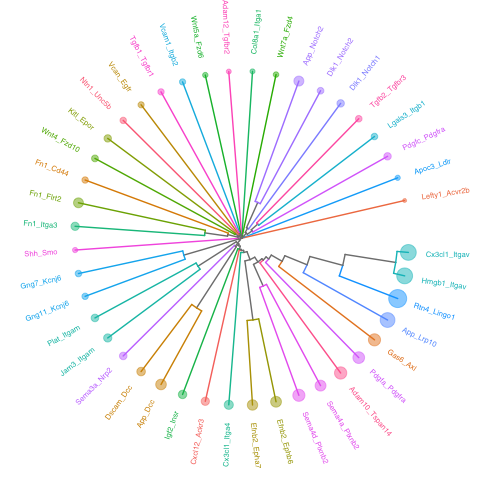
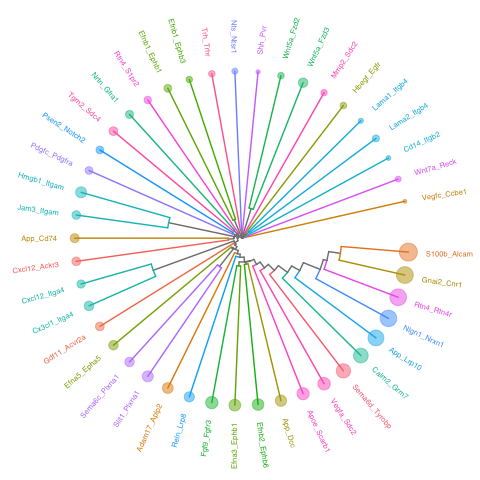
new README.md

diff --git a/README.md b/README.md
@@ -75,20 +75,20 @@ LRdb_m <-
 
 LRdb_m %>% 
   arrange(ligand_gene_symbol, receptor_gene_symbol)
-#> # A tibble: 105 × 10
+#> # A tibble: 104 × 10
 #>    LR    ligand_gene_symbol receptor_gene_symbol ligand_gene_id receptor_gene_id
 #>    <chr> <chr>              <chr>                         <dbl>            <dbl>
-#>  1 Adam… Adam10             Gpnmb                         11487            93695
-#>  2 Adam… Adam10             Tspan14                       11487            52588
-#>  3 Adam… Adam12             Tgfbr2                        11489            21813
-#>  4 Agt_… Agt                Lrp2                          11606            14725
+#>  1 Adam… Adam12             Epha1                         11489            13835
+#>  2 Adam… Adam17             Aplp2                         11491            11804
+#>  3 Adam… Adam2              Itga9                         11495           104099
+#>  4 Adip… Adipoq             Adipor1                       11450            72674
 #>  5 Alka… Alkal2             Alk                       100294583            11682
-#>  6 Apln… Apln               Aplnr                         30878            23796
-#>  7 Apoc… Apoc3              Ldlr                          11814            16835
+#>  6 Anxa… Anxa1              Dysf                          16952            26903
+#>  7 Apoe… Apoe               Scarb1                        11816            20778
 #>  8 Apoe… Apoe               Sdc1                          11816            20969
-#>  9 App_… App                Dcc                           11820            13176
-#> 10 App_… App                Lrp10                         11820            65107
-#> # ℹ 95 more rows
+#>  9 App_… App                Cd74                          11820            16149
+#> 10 App_… App                Dcc                           11820            13176
+#> # ℹ 94 more rows
 #> # ℹ 5 more variables: ligand_ensembl_protein_id <chr>,
 #> #   receptor_ensembl_protein_id <chr>, ligand_ensembl_gene_id <chr>,
 #> #   receptor_ensembl_gene_id <chr>, evidence <chr>
@@ -148,7 +148,7 @@ ccc_tbl <- compute_spatial_ccc(spe = spe_brain,
                                assay_name = "logcounts",
                                LRdb = LRdb_m)
 tictoc::toc()
-#> 7.267 sec elapsed
+#> 7.329 sec elapsed
 
 # future::plan(future::sequential)
 ```
@@ -156,20 +156,20 @@ tictoc::toc()
 ``` r
 ccc_tbl %>% 
   dplyr::arrange(desc(LRscore))
-#> # A tibble: 119,636 × 10
+#> # A tibble: 141,605 × 10
 #>    src         dst       d norm.d LR    ligand receptor LRscore  weight WLRscore
 #>    <chr>       <chr> <dbl>  <dbl> <chr> <chr>  <chr>      <dbl>   <dbl>    <dbl>
-#>  1 AGAAGAGCGC… GATA…  138.   1.00 Rtn4… Rtn4   Lingo1     0.862   0.992    0.855
-#>  2 TTCTTATCCG… GCAT…  137    1    Rtn4… Rtn4   Lingo1     0.861   1        0.861
-#>  3 AGGAGGCCTT… AGGA…    0    0    Rtn4… Rtn4   Lingo1     0.860 Inf      Inf    
-#>  4 AGTTTGGCAC… GCAT…  137.   1.00 Rtn4… Rtn4   Lingo1     0.860   0.999    0.859
-#>  5 GACGTGTAGG… GACG…    0    0    App_… App    Lrp10      0.859 Inf      Inf    
-#>  6 TCCGCGGCCC… AGGA…  138.   1.00 Rtn4… Rtn4   Lingo1     0.859   0.992    0.852
-#>  7 CTCTTCTATT… GGTT…  138    1.01 Rtn4… Rtn4   Lingo1     0.858   0.986    0.845
-#>  8 TTCAGCTGGC… GCAC…  138.   1.00 Rtn4… Rtn4   Lingo1     0.857   0.992    0.850
-#>  9 ATTGCGATCA… AGGA…  138.   1.01 Rtn4… Rtn4   Lingo1     0.857   0.980    0.839
-#> 10 ACGCTAGTGA… AACA…  138.   1.00 Rtn4… Rtn4   Lingo1     0.857   0.992    0.850
-#> # ℹ 119,626 more rows
+#>  1 GACGTGTAGG… GACG…    0    0    App_… App    Lrp10      0.859 Inf      Inf    
+#>  2 GGTGCTGGTA… GGTG…    0    0    App_… App    Cd74       0.852 Inf      Inf    
+#>  3 GGGCGGTCCT… GGGT…  138    1.01 Gnai… Gnai2  Cnr1       0.852   0.986    0.839
+#>  4 AAATAGCTTA… CTAG…  138    1.01 Gnai… Gnai2  Cnr1       0.851   0.986    0.838
+#>  5 CACCCAAATC… CTAG…  138.   1.01 Gnai… Gnai2  Cnr1       0.850   0.980    0.833
+#>  6 ACGGAATTTA… GGGT…  138.   1.01 Gnai… Gnai2  Cnr1       0.850   0.980    0.833
+#>  7 AGCTCTTTAC… GGTG…  138.   1.00 App_… App    Cd74       0.850   0.992    0.843
+#>  8 AACAGGATGG… GACG…  138.   1.01 App_… App    Lrp10      0.847   0.980    0.830
+#>  9 AGGACGACCC… GGTG…  138.   1.01 App_… App    Cd74       0.847   0.980    0.830
+#> 10 AGAAGGTTGC… GGTG…  138    1.01 App_… App    Cd74       0.847   0.986    0.834
+#> # ℹ 141,595 more rows
 ```
 
 ``` r
@@ -191,7 +191,7 @@ ccc_graph_list <-
   to_spatial_ccc_graph_list(ccc_tbl, sp_col_data, workers = 6)
 
 tictoc::toc()
-#> to_spatical_ccc_graph ...: 12.084 sec elapsed
+#> to_spatical_ccc_graph ...: 11.187 sec elapsed
 ```
 
 summarize_ccc_graph_metrics() summarize those graph metrics for each LR
@@ -204,26 +204,26 @@ ccc_graph_metrics_summary_df <-
   summarize_ccc_graph_metrics(ccc_graph_list)
 
 tictoc::toc()
-#> 0.065 sec elapsed
+#> 0.059 sec elapsed
 ```
 
 ``` r
 ccc_graph_metrics_summary_df %>%
   arrange(graph_component_count)
-#> # A tibble: 43 × 12
+#> # A tibble: 44 × 12
 #>    LR        graph_n_nodes graph_n_edges graph_component_count graph_motif_count
 #>    <chr>             <int>         <dbl>                 <dbl>             <int>
-#>  1 Hmgb1_It…          2635         11892                     3             22388
-#>  2 Rtn4_Lin…          2696         16456                     3             27017
-#>  3 Cx3cl1_I…          2617         11724                     4             21978
-#>  4 App_Lrp10          2646          9835                     5             19655
-#>  5 Adam10_T…          2114          5924                     8             10890
-#>  6 Gas6_Axl           2140          5712                    13             10471
-#>  7 Sema4d_P…          2079          5690                    14             10292
-#>  8 Pdgfa_Pd…          2099          5124                    18              9688
-#>  9 Sema4a_P…          1801          4135                    26              7024
-#> 10 App_Dcc            1989          3822                    42              8152
-#> # ℹ 33 more rows
+#>  1 Nlgn1_Nr…          2627         11042                     3             20957
+#>  2 S100b_Al…          2657         13613                     3             24055
+#>  3 App_Lrp10          2646          9835                     5             19655
+#>  4 Rtn4_Rtn…          2590         11251                     5             20250
+#>  5 Sema6d_T…          2281          7492                     5             14186
+#>  6 Gnai2_Cn…          2527         11392                     6             20558
+#>  7 Calm2_Gr…          2542          8040                     9             16302
+#>  8 Vegfa_Sd…          1993          5096                    15              9112
+#>  9 Fgf9_Fgf…          2009          4942                    20              9532
+#> 10 Efna3_Ep…          1900          4272                    21              7666
+#> # ℹ 34 more rows
 #> # ℹ 7 more variables: graph_diameter <dbl>, graph_un_diameter <dbl>,
 #> #   graph_mean_dist <dbl>, graph_circuit_rank <dbl>, graph_reciprocity <dbl>,
 #> #   graph_clique_num <int>, graph_clique_count <int>
@@ -239,25 +239,25 @@ ccc_graph_group_metrics_summary_df <-
   summarize_ccc_graph_metrics(ccc_graph_list, level = "group")
 
 tictoc::toc()
-#> 0.06 sec elapsed
+#> 0.058 sec elapsed
 ```
 
 ``` r
 ccc_graph_group_metrics_summary_df 
-#> # A tibble: 3,395 × 12
+#> # A tibble: 3,154 × 12
 #>    LR         group group_n_nodes group_n_edges group_adhesion group_motif_count
 #>    <chr>      <int>         <int>         <dbl>          <dbl>             <int>
-#>  1 Efnb2_Eph…     1          1021          3053              0              5526
-#>  2 Efnb2_Eph…    51             2             1              0                 0
-#>  3 Efnb2_Eph…    52             2             1              0                 0
-#>  4 Efnb2_Eph…     3            37            69              0               120
-#>  5 Efnb2_Eph…     5            13            17              0                25
-#>  6 Efnb2_Eph…     8            12            14              0                15
-#>  7 Efnb2_Eph…     2            46            95              0               128
-#>  8 Efnb2_Eph…    23             5             5              0                 3
-#>  9 Efnb2_Eph…    53             2             2              0                 0
-#> 10 Efnb2_Eph…    37             3             2              0                 1
-#> # ℹ 3,385 more rows
+#>  1 Wnt5a_Fzd3    66             4             4              0                 3
+#>  2 Wnt5a_Fzd3    25            15            23              0                34
+#>  3 Wnt5a_Fzd3     7            46           110              0               184
+#>  4 Wnt5a_Fzd3     1           183           383              0               727
+#>  5 Wnt5a_Fzd3     5            49            85              0               156
+#>  6 Wnt5a_Fzd3    84             2             1              0                 0
+#>  7 Wnt5a_Fzd3    17            21            26              0                48
+#>  8 Wnt5a_Fzd3    11            38           120              0               192
+#>  9 Wnt5a_Fzd3    20            18            31              0                55
+#> 10 Wnt5a_Fzd3     6            49            66              0               122
+#> # ℹ 3,144 more rows
 #> # ℹ 6 more variables: group_diameter <dbl>, group_un_diameter <dbl>,
 #> #   group_mean_dist <dbl>, group_girth <dbl>, group_circuit_rank <dbl>,
 #> #   group_reciprocity <dbl>
@@ -436,7 +436,7 @@ cell_overlap_dist <-
   dist_cell_overlap_ccc_tbl(ccc_tbl)
 
 tictoc::toc()
-#> 0.303 sec elapsed
+#> 0.363 sec elapsed
 ```
 
 ``` r
@@ -446,7 +446,7 @@ cell_overlap_lf <-
   lf_cell_overlap_ccc_tbl(ccc_tbl)
 
 tictoc::toc()
-#> 0.396 sec elapsed
+#> 0.46 sec elapsed
 ```
 
 ``` r
@@ -459,7 +459,7 @@ LRs_high_cell_overlap <-
   unlist() %>% unique()
 
 tictoc::toc()
-#> 0.002 sec elapsed
+#> 0.003 sec elapsed
 ```
 
 ``` r
@@ -482,7 +482,7 @@ high_cell_overlap_dist2 <-
   lf_to_dist()
 
 tictoc::toc()
-#> 0.007 sec elapsed
+#> 0.006 sec elapsed
 ```
 
 ``` r
